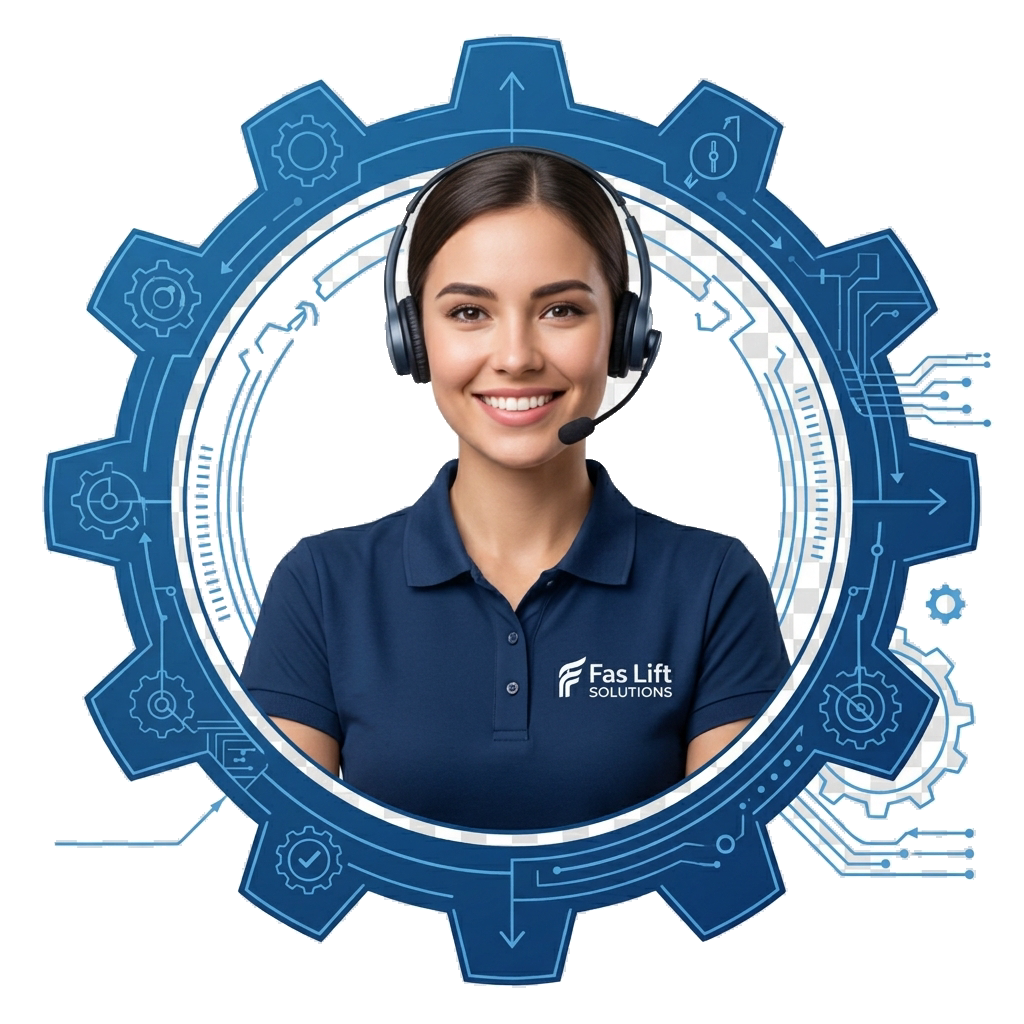
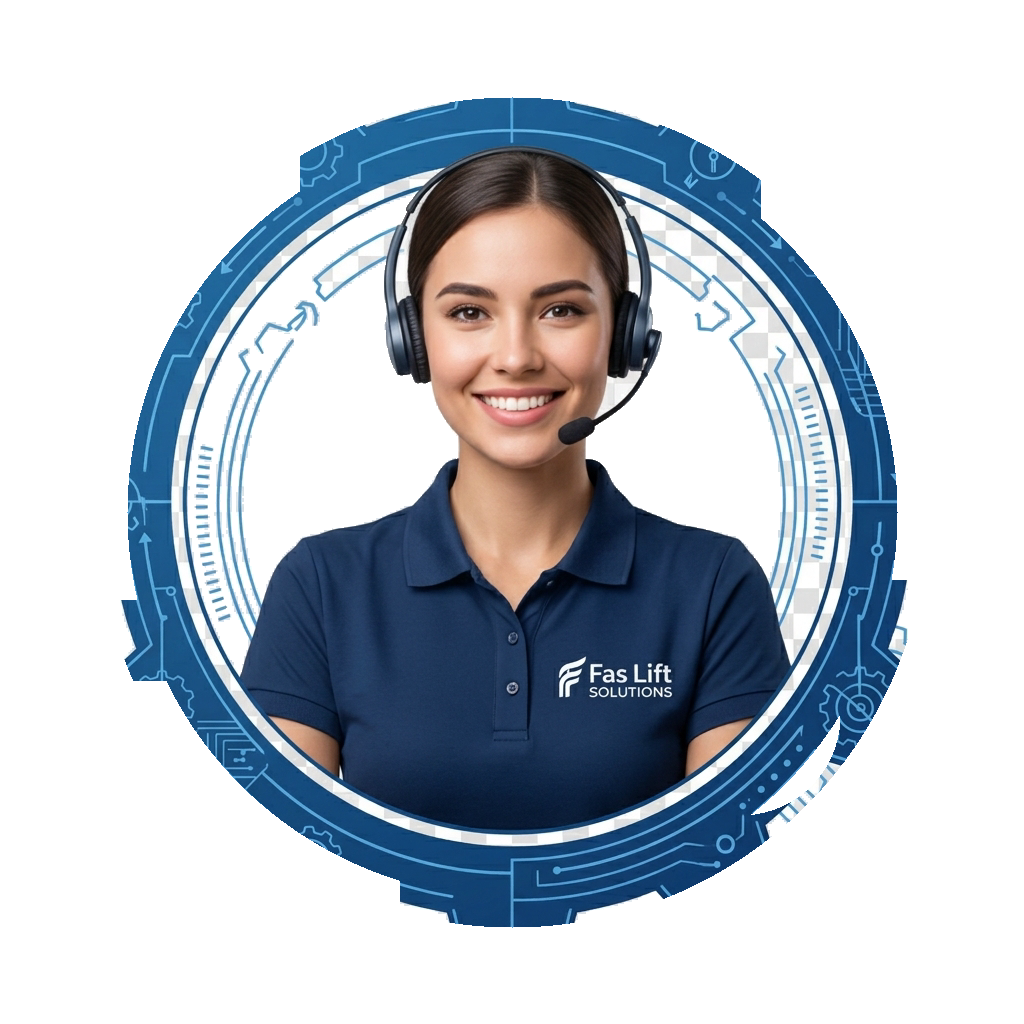
new update

diff --git a/src/pages/SupportPage.tsx b/src/pages/SupportPage.tsx
@@ -176,17 +176,17 @@ export default function SupportPage() {
       {/* ── SECTION 2: TALK TO SOMEONE CARD ── */}
       <section className="py-24 px-6 md:px-12 bg-[#F5F7FA] relative z-20 flex flex-col items-center text-center">
         {/* Card Wrapper */}
-        <div className="relative w-full max-w-3xl mx-auto bg-white rounded-[24px] border border-[#0d2b5e]/5 px-8 pt-32 pb-12 md:px-12 md:pt-40 md:pb-16 shadow-[0_15px_45px_rgba(0,0,0,0.08)]">
+        <div className="relative w-full max-w-3xl mx-auto bg-white rounded-[24px] border border-[#0d2b5e]/5 px-8 pt-28 pb-12 md:px-12 md:pt-36 md:pb-16 shadow-[0_15px_45px_rgba(0,0,0,0.08)]">
           
           {/* Layered 3D Support Badge - Overlapping the top border */}
-          <div className="absolute top-0 left-1/2 -translate-x-1/2 -translate-y-1/2 w-48 h-48 md:w-56 md:h-56 flex items-center justify-center">
+          <div className="absolute top-0 left-1/2 -translate-x-1/2 -translate-y-1/2 w-48 h-48 md:w-60 md:h-60 flex items-center justify-center">
             {/* White Circular Background (Smaller than the gear) */}
-            <div className="absolute w-36 h-36 md:w-44 md:h-44 rounded-full bg-white shadow-[0_8px_25px_rgba(11,61,120,0.06)] border border-[#0d2b5e]/5 z-0" />
+            <div className="absolute w-32 h-32 md:w-40 md:h-40 rounded-full bg-white shadow-[0_8px_25px_rgba(11,61,120,0.06)] border border-[#0d2b5e]/5 z-0" />
             
             {/* Gear Support Image - Extending beyond the white circle with floating shadow */}
-            <div className="relative z-10 w-44 h-44 md:w-52 md:h-52 drop-shadow-[0_15px_30px_rgba(11,61,120,0.22)] flex items-center justify-center">
+            <div className="relative z-10 w-44 h-44 md:w-56 md:h-56 drop-shadow-[0_15px_30px_rgba(11,61,120,0.22)] flex items-center justify-center">
               <img
-                src="/images/Gemini_Generated_Image_73we9t73we_3d.png"
+                src="/images/Gemini_Generated_Image_7u29fv7u29fv7u29-removebg-preview.png?v=5"
                 alt="Support Agent"
                 className="w-full h-full object-contain"
                 draggable={false}
@@ -232,17 +232,14 @@ export default function SupportPage() {
       </section>
 
       {/* ── SECTION 1: SUPPORT TYPE CARDS ── */}
-      <section
-        className="py-20 px-6 md:px-12 bg-white"
-        style={{
-          backgroundImage: 'radial-gradient(#c8d8f0 1px, transparent 1px)',
-          backgroundSize: '24px 24px',
-        }}
-      >
-        <div className="max-w-7xl mx-auto">
+      <section className="relative py-20 px-6 md:px-12 bg-[#0B3D78] overflow-hidden">
+        {/* Diagonal hatch pattern overlay */}
+        <div className="absolute inset-0 hatch-pattern pointer-events-none" />
+        
+        <div className="relative z-10 max-w-7xl mx-auto">
           <div className="grid grid-cols-1 md:grid-cols-3 gap-8">
             {/* Card 1: Commercial Support */}
-            <div className="bg-white rounded-[12px] border-[0.5px] border-[#0d2b5e]/20 p-8 flex flex-col items-center text-center transition-transform duration-200 ease-out hover:-translate-y-[3px]">
+            <div className="bg-white rounded-[24px] border border-[#0d2b5e]/5 p-8 flex flex-col items-center text-center transition-all duration-300 ease-out hover:-translate-y-[6px] shadow-[0_15px_45px_rgba(0,0,0,0.08)] hover:shadow-[0_20px_50px_rgba(0,0,0,0.12)]">
               <div className="w-16 h-16 rounded-full bg-[#e6f0fb] flex items-center justify-center text-[#0d2b5e] mb-6">
                 <Briefcase size={26} />
               </div>
@@ -261,7 +258,7 @@ export default function SupportPage() {
             </div>
 
             {/* Card 2: Technical Support */}
-            <div className="bg-white rounded-[12px] border-[0.5px] border-[#0d2b5e]/20 p-8 flex flex-col items-center text-center transition-transform duration-200 ease-out hover:-translate-y-[3px]">
+            <div className="bg-white rounded-[24px] border border-[#0d2b5e]/5 p-8 flex flex-col items-center text-center transition-all duration-300 ease-out hover:-translate-y-[6px] shadow-[0_15px_45px_rgba(0,0,0,0.08)] hover:shadow-[0_20px_50px_rgba(0,0,0,0.12)]">
               <div className="w-16 h-16 rounded-full bg-[#e6f0fb] flex items-center justify-center text-[#0d2b5e] mb-6">
                 <Wrench size={26} />
               </div>
@@ -280,7 +277,7 @@ export default function SupportPage() {
             </div>
 
             {/* Card 3: Post Sale Support */}
-            <div className="bg-white rounded-[12px] border-[0.5px] border-[#0d2b5e]/20 p-8 flex flex-col items-center text-center transition-transform duration-200 ease-out hover:-translate-y-[3px]">
+            <div className="bg-white rounded-[24px] border border-[#0d2b5e]/5 p-8 flex flex-col items-center text-center transition-all duration-300 ease-out hover:-translate-y-[6px] shadow-[0_15px_45px_rgba(0,0,0,0.08)] hover:shadow-[0_20px_50px_rgba(0,0,0,0.12)]">
               <div className="w-16 h-16 rounded-full bg-[#e6f0fb] flex items-center justify-center text-[#0d2b5e] mb-6">
                 <ShieldCheck size={26} />
               </div>
@@ -312,11 +309,14 @@ export default function SupportPage() {
             animate={{ height: 'auto', opacity: 1 }}
             exit={{ height: 0, opacity: 0 }}
             transition={{ duration: 0.6, ease: [0.04, 0.62, 0.23, 0.98] }}
-            className="overflow-hidden bg-white"
+            className="relative overflow-hidden bg-[#0B3D78]"
           >
-            <div className="py-24 px-6 md:px-12">
+            {/* Diagonal hatch pattern overlay */}
+            <div className="absolute inset-0 hatch-pattern pointer-events-none" />
+            
+            <div className="relative z-10 py-24 px-6 md:px-12">
               <div className="max-w-3xl mx-auto">
-                <div className="bg-white rounded-[16px] border-[0.5px] border-[#0d2b5e]/20 p-8 md:p-12">
+                <div className="bg-white rounded-[24px] border border-[#0d2b5e]/5 p-8 md:p-12 shadow-[0_15px_45px_rgba(0,0,0,0.08)]">
                   <AnimatePresence mode="wait">
                     {!formSubmitted ? (
                       <motion.div

diff --git a/inspect_blueprint.js b/inspect_blueprint.js
@@ -1,0 +1,31 @@
+import { Jimp } from 'jimp';
+
+async function main() {
+  const image = await Jimp.read('public/images/Gemini_Generated_Image_73we9t73we_3d.png');
+  const width = image.width;
+  const height = image.height;
+  const cx = 512;
+  const cy = 512;
+  
+  let maxD = 0;
+  
+  // Find max distance of non-transparent pixel
+  for (let y = 0; y < height; y++) {
+    for (let x = 0; x < width; x++) {
+      const color = image.getPixelColor(x, y);
+      const a = color & 0xff;
+      if (a > 50) {
+        const dx = x - cx;
+        const dy = y - cy;
+        const d = Math.sqrt(dx * dx + dy * dy);
+        if (d > maxD) {
+          maxD = d;
+        }
+      }
+    }
+  }
+  
+  console.log('Max distance of colored pixel from center:', maxD);
+}
+
+main().catch(console.error);
